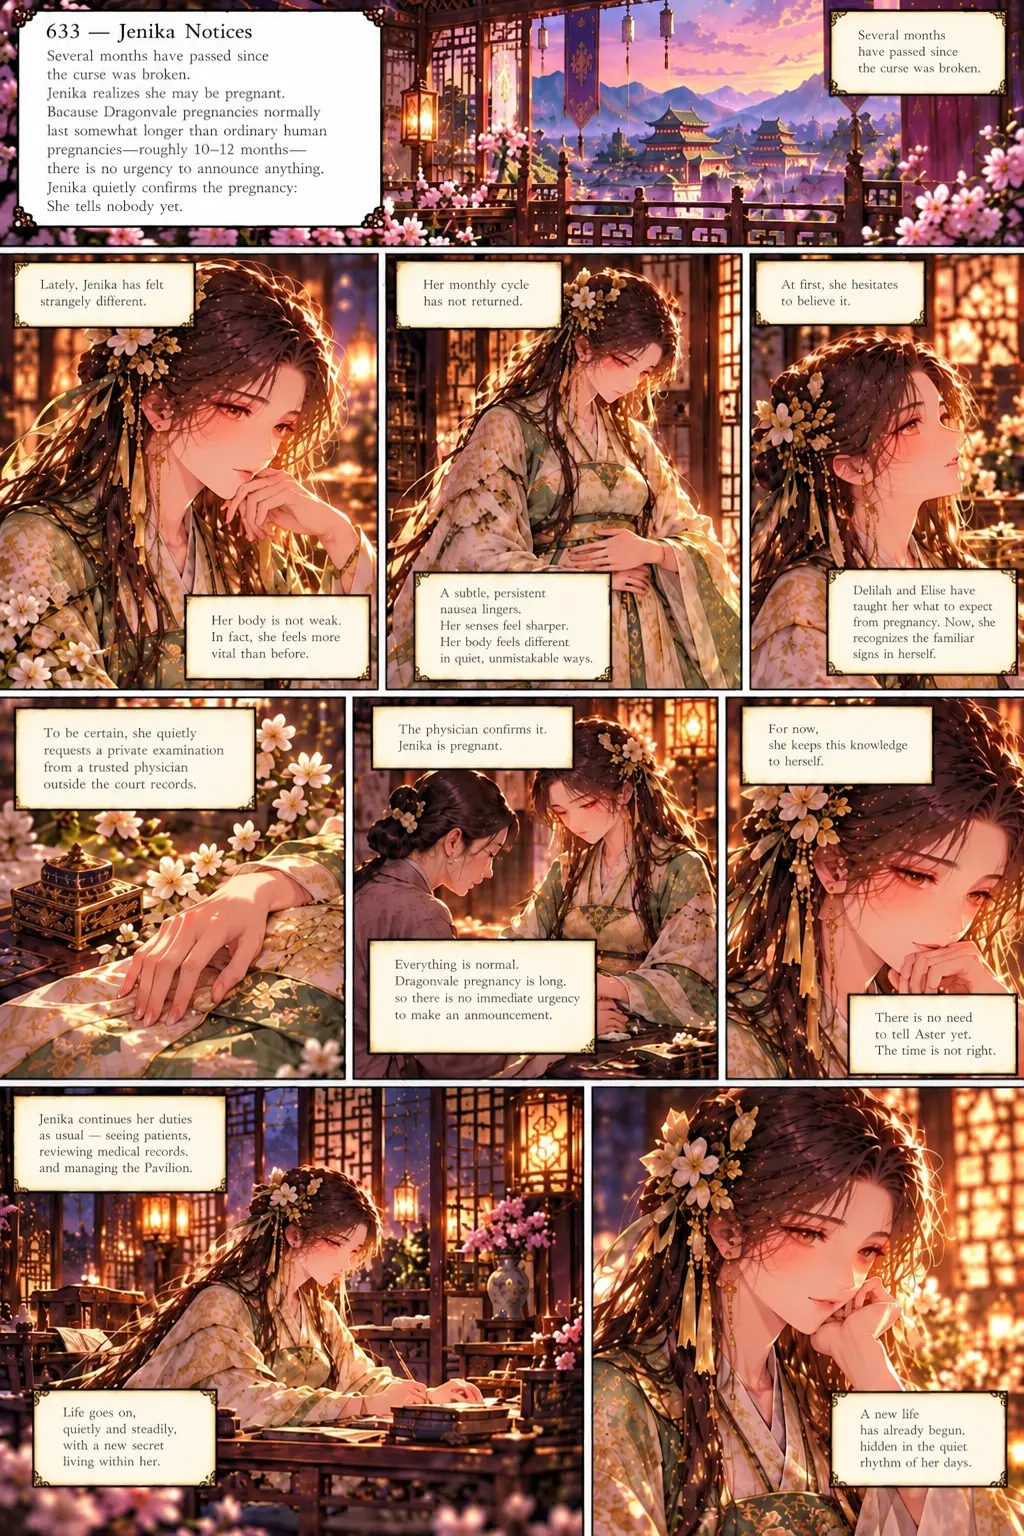
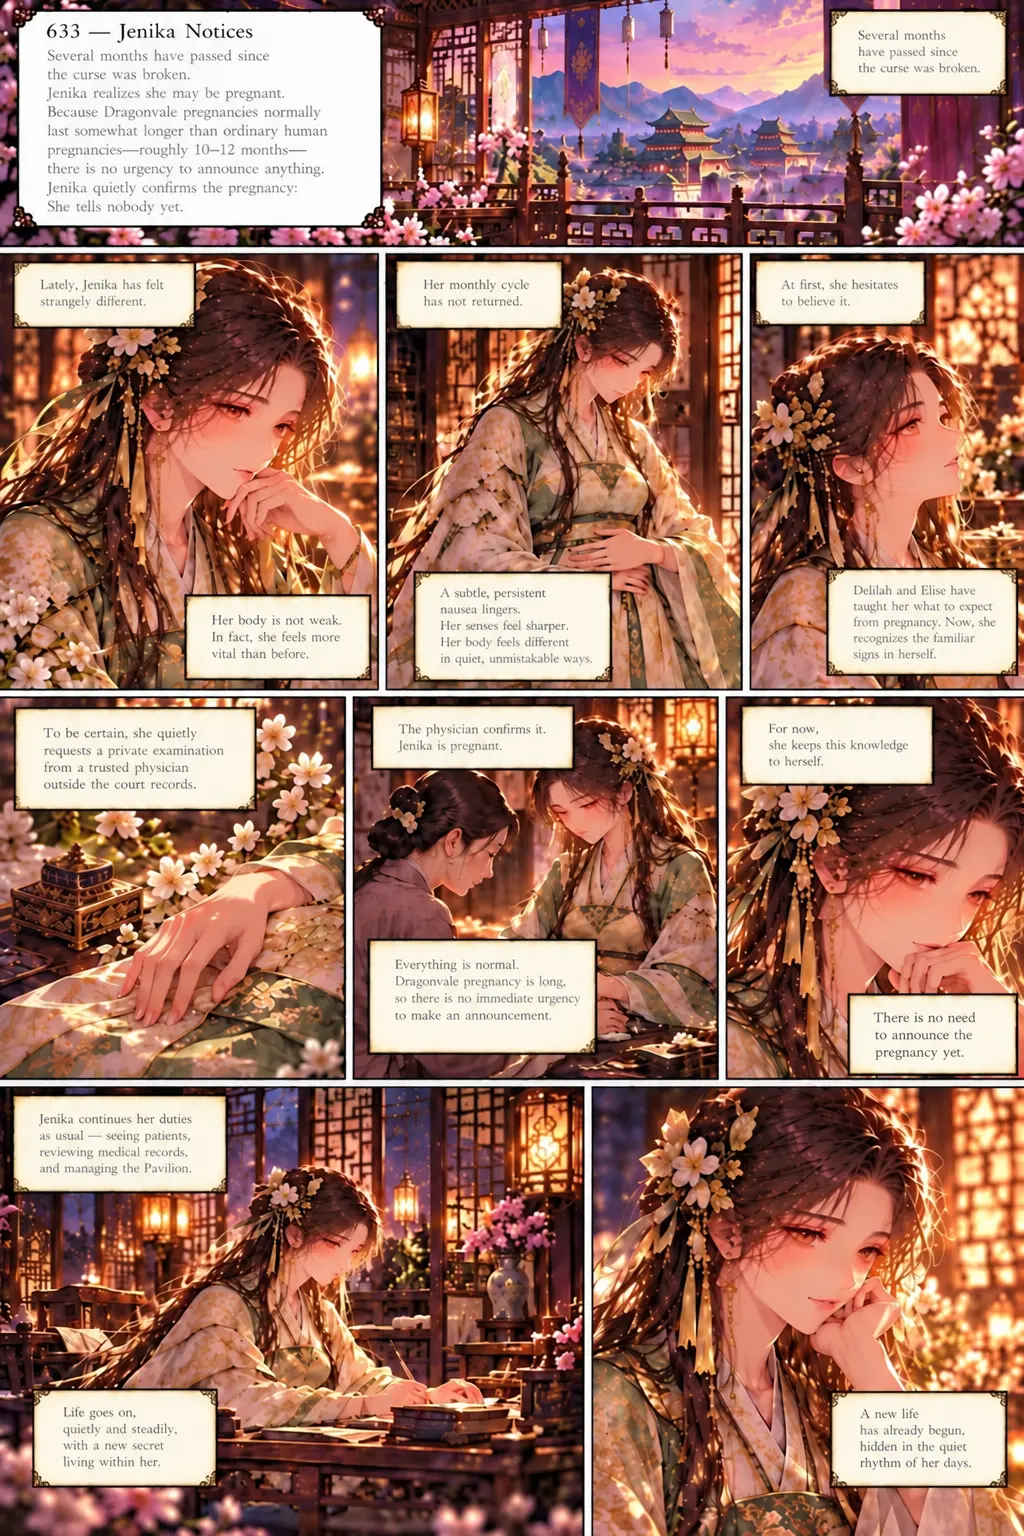
Arc XXIV: replace 633 with the corrected page (no need to announce the pregnancy yet)
Claude-Session: https://claude.ai/code/session_01JgCx3Matg4MVjEr67ncDB4

diff --git a/docs/ARC_XXIV_PLAN.md b/docs/ARC_XXIV_PLAN.md
@@ -69,7 +69,7 @@ Theme: duty may shape a life, but eventually people must choose how they want to
 - The built 576-580 chapters have Aster crowned king and Elise crowned beside him; XXIV starts after that. Chapter counts: this arc is 611-635, so the roadmap's "Evils: 8 / 15" holds through it, and XXV starts at 636.
 
 ## BUILT SO FAR (chapters 611-635, all of the arc)
-Missing: only the Arc XXIV cover. 613 The Healer Who Cannot Heal Herself is in, and 633 was redrawn and replaced (Delilah and Elise taught her what to expect; the caption "There is no need to tell Aster yet" is probably meant for Sky). 635 One Hundred Days is in (the first of the two versions sent; Fen becomes Queen of Dragonvale on her panel from 635). Ch630 was redrawn and replaced (Sky now has blue hair, as in the rest of the story); 631 Scholar Fen, 632 Time Passes, 633 Jenika Notices and 634 Delilah Knows are in. Places: Dragonvale hub (611, the Pavilion and Archives 612/614/623-626), the Noble Court (615-622, 627, 628), the Northern Frontier (629 unnamed lakeside village, 630 quiet village). Story-only: no new mechanics yet (the planned disguise missions, suspicion meter and Hidden Frontier Network wait for the rest of the arc).
+Missing: only the Arc XXIV cover. 613 The Healer Who Cannot Heal Herself is in, and 633 was redrawn and replaced (Delilah and Elise taught her what to expect; its caption now reads "There is no need to announce the pregnancy yet"). 635 One Hundred Days is in (the first of the two versions sent; Fen becomes Queen of Dragonvale on her panel from 635). Ch630 was redrawn and replaced (Sky now has blue hair, as in the rest of the story); 631 Scholar Fen, 632 Time Passes, 633 Jenika Notices and 634 Delilah Knows are in. Places: Dragonvale hub (611, the Pavilion and Archives 612/614/623-626), the Noble Court (615-622, 627, 628), the Northern Frontier (629 unnamed lakeside village, 630 quiet village). Story-only: no new mechanics yet (the planned disguise missions, suspicion meter and Hidden Frontier Network wait for the rest of the arc).
 **How the pages differ from, or settle, the plan:**
 - **Who knows (settled by 630):** Jade's group, Roc and Delilah, and Elise and Tarin all attend the secret wedding. Fen already stays with Elise in the palace (616) and is in on the plan (617-618). Jade and Devon help Elise leave (621).
 - **Two versions of 618 and two of 620 were sent.** 618: the later version (Fen undisguised beside Elise, "Fen keeps her own eye colour") was built; the first (Fen already disguised in the reference panel) was not used. 620: the first (Fen's first controlled appearance, Aster coaching her) is built as 620; the second (a final appearance with fake opera-troupe blood, "Eventually, even these appearances stop") carries a title card "620" but matches 627, "The Queen Declines", so it is built as **627**. If it was meant as a replacement for 620, say so and I will swap them.
